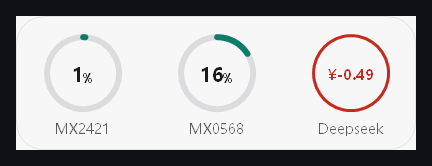
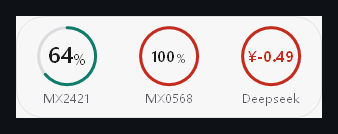
chore: 清理无用图片，重出过期截图 (v1.1.5 收尾)
清理（共 10 张 / 约 600 KB）
- archive/*.png 3 张（406 KB）：QuotaTray 托盘原型的界面截图，
  该实现已废弃、图片从未被文档引用
- release/TokenPocket-1.1.2/截图/ 7 张：v1.1.2 发布包的配图，
  使用说明.md 并未引用，且版本已过期（当前 1.1.5）
- v4-dock-1.png：与 shot-dock.png 字节完全相同（MD5 一致），纯重复

重出（因为画的是旧排版）
shot-dock.png / shot-panel.png 生成于 11:14，早于 v1.1.4（12:20）的排版精修，
画的是 16 Bold + 笔宽 4 的旧样式；shot-dock-v/light/anim 更是 v1.1.2 时代（89px 单元）。
过时的截图比没有截图更误导人，故按当前代码全部重出，并以默认档（68）为文档基准。

整理命名
- v4-dock-0_75.png → shot-dock-small.png
- v4-dock-1_25.png → shot-dock-large.png
现在 10 张图构成一套完整清单：三档尺寸 + 纵排 + 浅色 + 动效 + 展开态 + 两个配置页 + 方案对比。

HANDOFF 新增 §3.4 截图清单
- 逐张标注内容与重出命令
- 记录一个陷阱：-Shot 只在 -ForceOrient 时改文件名，
  -ForceTheme / -Anim 产出的仍是 shot-dock.png，需手工改名
  —— 这正是历史上截图反复过期的原因

diff --git a/HANDOFF.md b/HANDOFF.md
@@ -220,6 +220,25 @@ D:\AppData\token消耗面板\
 | 855 | `Set-Template` | 切模板（含 type 合法性修正） |
 | 979 | `Save-UIToAccount` | UI → 账户对象（只存本模板用到的凭据 + scale/unit） |
 
+### 3.4 截图清单（都是当前版本的真实渲染，可随时重出）
+
+| 文件 | 内容 | 重出方式 |
+|---|---|---|
+| `shot-dock.png` | 折叠态 · 默认档（68）深色 | `-Shot` |
+| `shot-dock-small.png` | 折叠态 · 小档（51） | `dockScale` 设 0.75 后 `-Shot` |
+| `shot-dock-large.png` | 折叠态 · 大档（85） | `dockScale` 设 1.25 后 `-Shot` |
+| `shot-dock-v.png` | 折叠态 · 纵排 | `-Shot -ForceOrient v` |
+| `shot-dock-light.png` | 折叠态 · 浅色主题 | `-Shot -ForceTheme light` 后改名 |
+| `shot-dock-anim.png` | 双击刷新动效的某一帧 | `-Shot -Anim` 后改名 |
+| `shot-panel.png` | 展开态 | `-Shot` 会自动同时产出 |
+| `shot-config.png` | 配置页 · 账户 | `-ConfigShot` |
+| `shot-cfg-system.png` | 配置页 · 系统 | `-ConfigShot -ConfigPage system` |
+| `scheme-compare.png` | 排版方案 A/B/C 对比（v1.1.4 定方案的依据） | `preview-schemes.ps1` |
+
+**注意**：`-Shot` 只在 `-ForceOrient` 时改文件名，`-ForceTheme` / `-Anim` 产出的仍是
+`shot-dock.png`，需要手工改名——这也是历史上截图反复过期的原因。
+**改完 UI 必须重出这些图**，否则截图与代码不一致，比没有截图更误导人。
+
 ## 4. 架构与数据流
 
 ### 4.1 三层
